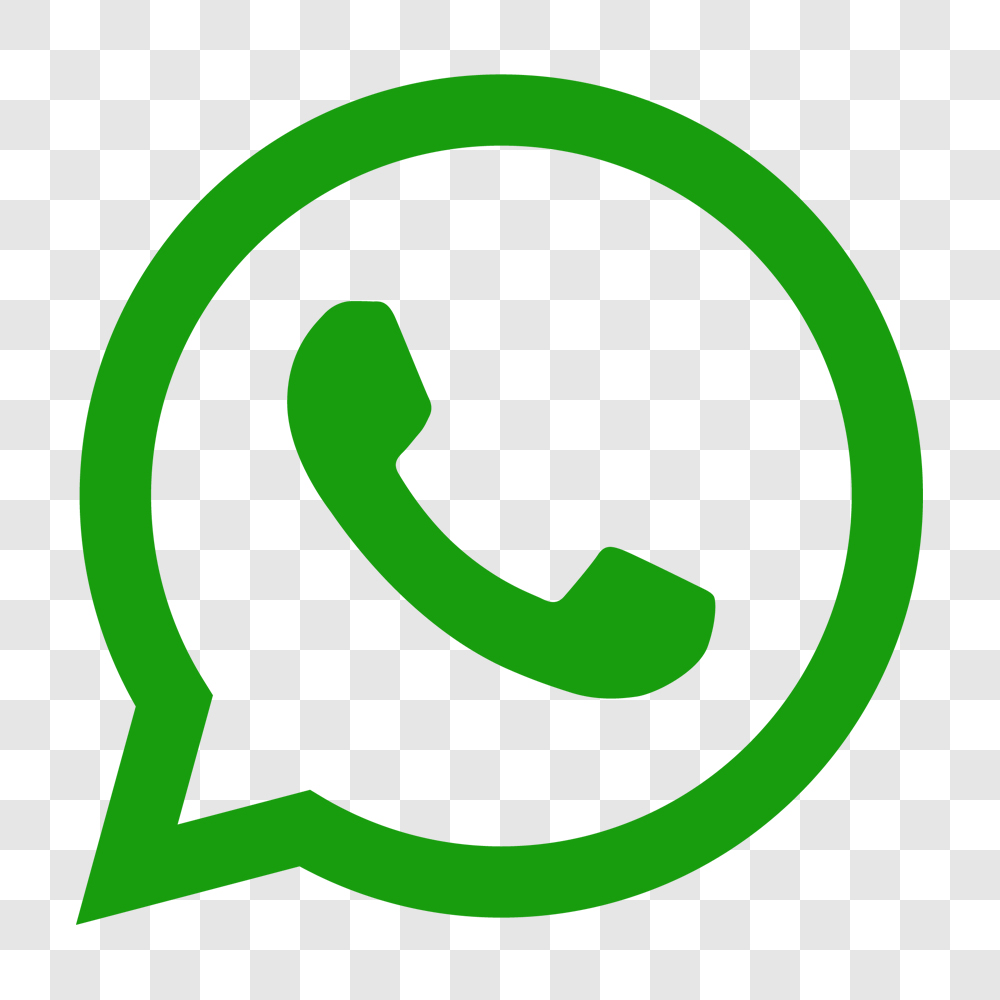
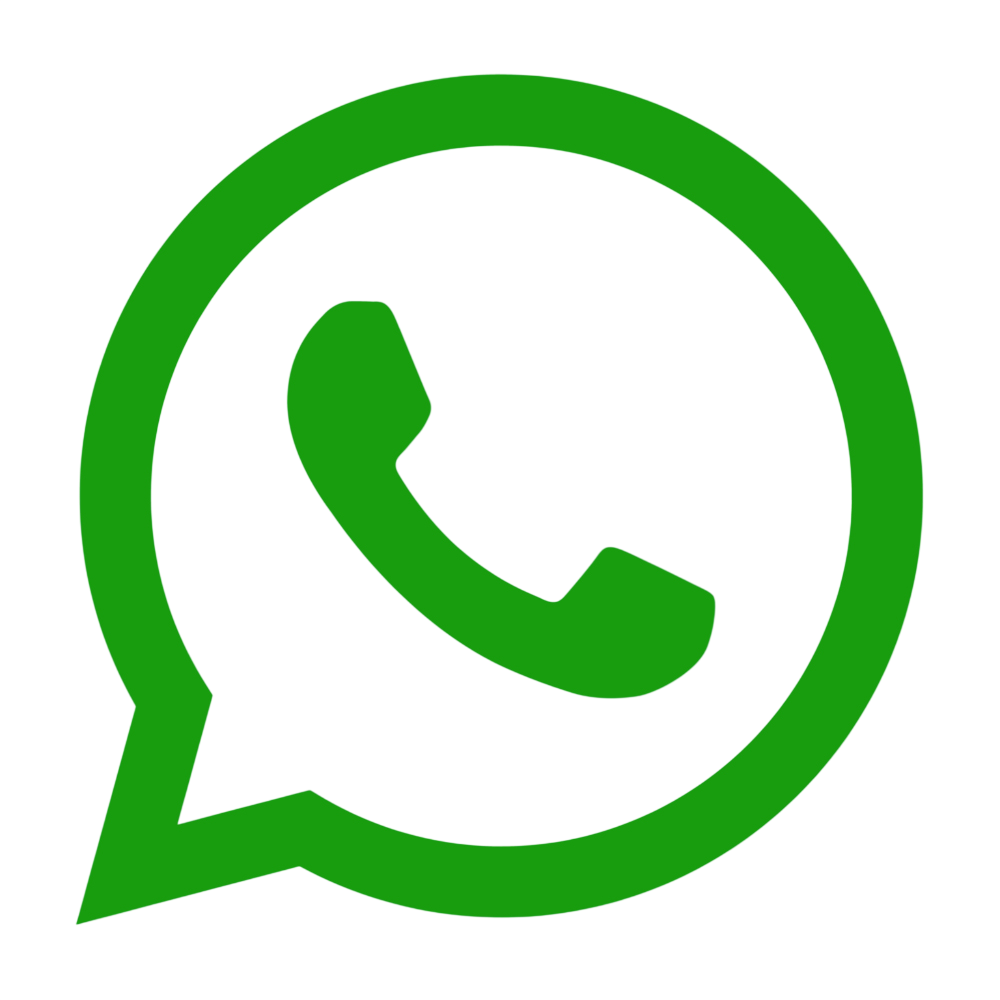
Adiciona fluxo de esqueci minha senha com Supabase e atualiza icone do WhatsApp

diff --git a/redefinir-senha.html b/redefinir-senha.html
@@ -1,0 +1,148 @@
+<!DOCTYPE html>
+<html lang="pt-BR">
+<head>
+<meta charset="UTF-8">
+<meta name="viewport" content="width=device-width, initial-scale=1.0">
+<title>Redefinir senha — Mimo & Monte</title>
+<link rel="icon" href="images/logo.png">
+<meta name="robots" content="noindex, nofollow">
+<link rel="preconnect" href="https://fonts.googleapis.com">
+<link rel="preconnect" href="https://fonts.gstatic.com" crossorigin>
+<link href="https://fonts.googleapis.com/css2?family=Baloo+2:wght@500;600;700;800&family=Nunito+Sans:wght@400;600;700;800&display=swap" rel="stylesheet">
+<link rel="stylesheet" href="css/style.css">
+</head>
+<body>
+
+<header class="site-header">
+  <div class="header-inner">
+    <a href="index.html" class="brand">
+      <img src="images/logo.png" alt="Mimo & Monte">
+      <span class="brand-name">Mimo &amp; Monte</span>
+    </a>
+    <nav class="main-nav">
+      <ul>
+        <li><a href="index.html">Home</a></li>
+        <li><a href="sobre.html">Sobre nós</a></li>
+        <li><a href="kits.html">Kit's</a></li>
+        <li><a href="contato.html">Contato</a></li>
+        <li><a href="duvidas.html">Dúvidas</a></li>
+      </ul>
+    </nav>
+    <div class="header-actions">
+      <a class="btn btn-ghost btn-sm" href="index.html">← Voltar ao site</a>
+      <button class="hamburger" aria-label="Abrir menu" aria-expanded="false"><span></span></button>
+    </div>
+  </div>
+  <nav class="mobile-nav">
+    <a href="index.html">Home</a>
+    <a href="sobre.html">Sobre nós</a>
+    <a href="kits.html">Kit's</a>
+    <a href="contato.html">Contato</a>
+    <a href="duvidas.html">Dúvidas</a>
+  </nav>
+</header>
+
+<main>
+  <section class="page-hero bg-lilac">
+    <div class="container">
+      <span class="eyebrow">🔐 Nova senha</span>
+      <h1>Criar uma nova senha</h1>
+      <p>Escolha a nova senha da sua conta.</p>
+    </div>
+  </section>
+
+  <section class="section section--tight">
+    <div class="container">
+      <div class="auth-card">
+
+        <div id="redefinir-status" class="notice-box" style="display:none; margin-bottom:20px;"></div>
+
+        <form id="form-redefinir" class="stack">
+          <div class="field">
+            <label for="nova-senha">Nova senha</label>
+            <div class="password-field">
+              <input id="nova-senha" type="password" required minlength="6" autocomplete="new-password">
+              <label class="password-toggle">
+                <input type="checkbox" class="js-toggle-senha" data-target="nova-senha">
+                <span>Mostrar senha</span>
+              </label>
+            </div>
+          </div>
+          <button type="submit" class="btn btn-primary btn-block">Salvar nova senha</button>
+        </form>
+
+      </div>
+    </div>
+  </section>
+</main>
+
+<footer class="site-footer">
+  <div class="container">
+    <div class="footer-bottom" style="border-top:none; margin-top:0; padding-top:0;">
+      <span>&copy; 2026 Mimo &amp; Monte. Todos os direitos reservados.</span>
+      <span><a href="login.html">Voltar ao login</a></span>
+    </div>
+  </div>
+  <div class="footer-credit">Criado por Fabiano Galego</div>
+</footer>
+
+<script src="https://cdn.jsdelivr.net/npm/@supabase/supabase-js@2"></script>
+<script src="js/supabase-config.js"></script>
+<script src="js/auth.js"></script>
+<script src="js/data.js"></script>
+<script src="js/main.js"></script>
+<script>
+document.addEventListener("DOMContentLoaded", async () => {
+  document.querySelectorAll(".js-toggle-senha").forEach(checkbox => {
+    checkbox.addEventListener("change", () => {
+      const input = document.querySelector("#" + checkbox.dataset.target);
+      if(input) input.type = checkbox.checked ? "text" : "password";
+    });
+  });
+
+  const status = document.querySelector("#redefinir-status");
+  const form = document.querySelector("#form-redefinir");
+
+  function showStatus(msg, ok){
+    status.textContent = msg;
+    status.style.display = "block";
+    status.style.background = ok ? "#E3F6EA" : "#FDE8E6";
+    status.style.color = ok ? "#1F6B4A" : "#B3261E";
+    status.style.border = "none";
+  }
+
+  if(!supabaseClient){
+    showStatus("O login ainda não foi configurado neste site.", false);
+    form.style.display = "none";
+    return;
+  }
+
+  // O link do e-mail traz um token de recuperação na URL; o Supabase já
+  // cria a sessão temporária sozinho ao carregar a página.
+  const { data } = await supabaseClient.auth.getSession();
+  if(!data.session){
+    showStatus("Este link é inválido ou já expirou. Solicite um novo em \"Esqueci minha senha\", na tela de login.", false);
+    form.style.display = "none";
+    return;
+  }
+
+  form.addEventListener("submit", async (e) => {
+    e.preventDefault();
+    const btn = form.querySelector("button[type='submit']");
+    btn.disabled = true; btn.textContent = "Salvando...";
+    try{
+      const novaSenha = document.querySelector("#nova-senha").value;
+      const { error } = await supabaseClient.auth.updateUser({ password: novaSenha });
+      if(error) throw error;
+      showStatus("Senha alterada com sucesso! Redirecionando para o login...", true);
+      form.style.display = "none";
+      setTimeout(() => { window.location.href = "login.html"; }, 2200);
+    }catch(err){
+      showStatus(err.message || "Não foi possível salvar a nova senha.", false);
+      btn.disabled = false; btn.textContent = "Salvar nova senha";
+    }
+  });
+});
+</script>
+</body>
+</html>

diff --git a/login.html b/login.html
@@ -84,6 +84,17 @@
               </div>
             </div>
             <button type="submit" class="btn btn-primary btn-block">Acessar minha conta</button>
+            <p class="form-note" style="text-align:center;"><a href="#" id="esqueci-senha-link">Esqueci minha senha</a></p>
+          </form>
+
+          <form id="form-recuperar" class="auth-form">
+            <p class="form-note" style="margin-top:0;">Digite o e-mail da sua conta — vamos enviar um link para você criar uma nova senha.</p>
+            <div class="field">
+              <label for="recuperar-email">E-mail</label>
+              <input id="recuperar-email" type="email" required autocomplete="email">
+            </div>
+            <button type="submit" class="btn btn-primary btn-block">Enviar link de redefinição</button>
+            <p class="form-note" style="text-align:center;"><a href="#" id="voltar-login-link">← Voltar para login</a></p>
           </form>
 
           <form id="form-cadastrar" class="auth-form">
@@ -145,17 +156,29 @@ document.addEventListener("DOMContentLoaded", () => {
   }
 
   const tabs = document.querySelectorAll(".auth-tab");
-  const forms = { entrar: document.querySelector("#form-entrar"), cadastrar: document.querySelector("#form-cadastrar") };
+  const forms = { entrar: document.querySelector("#form-entrar"), cadastrar: document.querySelector("#form-cadastrar"), recuperar: document.querySelector("#form-recuperar") };
   const errorBox = document.querySelector("#auth-error");
 
+  function showForm(name){
+    tabs.forEach(t => t.classList.remove("active"));
+    const matchingTab = [...tabs].find(t => t.dataset.tab === name);
+    if(matchingTab) matchingTab.classList.add("active");
+    Object.values(forms).forEach(f => f.classList.remove("active"));
+    forms[name].classList.add("active");
+    errorBox.classList.remove("show");
+  }
+
   tabs.forEach(tab => {
-    tab.addEventListener("click", () => {
-      tabs.forEach(t => t.classList.remove("active"));
-      tab.classList.add("active");
-      Object.values(forms).forEach(f => f.classList.remove("active"));
-      forms[tab.dataset.tab].classList.add("active");
-      errorBox.classList.remove("show");
-    });
+    tab.addEventListener("click", () => showForm(tab.dataset.tab));
+  });
+
+  document.querySelector("#esqueci-senha-link").addEventListener("click", (e) => {
+    e.preventDefault();
+    showForm("recuperar");
+  });
+  document.querySelector("#voltar-login-link").addEventListener("click", (e) => {
+    e.preventDefault();
+    showForm("entrar");
   });
 
   function showError(err){
@@ -176,6 +199,29 @@ document.addEventListener("DOMContentLoaded", () => {
       await signIn(document.querySelector("#entrar-email").value.trim(), document.querySelector("#entrar-senha").value);
       redirectAfterLogin();
     }catch(err){ showError(err); }
+  });
+
+  forms.recuperar.addEventListener("submit", async (e) => {
+    e.preventDefault();
+    errorBox.classList.remove("show");
+    const btn = forms.recuperar.querySelector("button[type='submit']");
+    btn.disabled = true; btn.textContent = "Enviando...";
+    try{
+      const email = document.querySelector("#recuperar-email").value.trim();
+      const { error } = await supabaseClient.auth.resetPasswordForEmail(email, {
+        redirectTo: window.location.origin + "/redefinir-senha.html"
+      });
+      if(error) throw error;
+      errorBox.textContent = "Enviamos um link para " + email + ". Verifique sua caixa de entrada (e o spam) para criar a nova senha.";
+      errorBox.classList.add("show");
+      errorBox.style.background = "#E3F6EA";
+      errorBox.style.color = "#1F6B4A";
+      forms.recuperar.reset();
+    }catch(err){
+      showError(err);
+    }finally{
+      btn.disabled = false; btn.textContent = "Enviar link de redefinição";
+    }
   });
 
   forms.cadastrar.addEventListener("submit", async (e) => {
